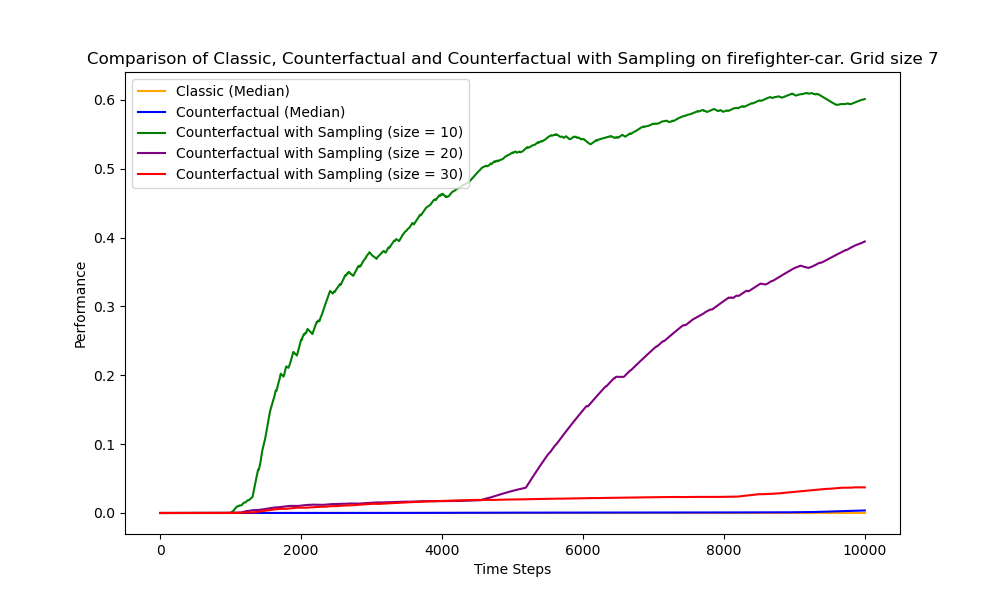
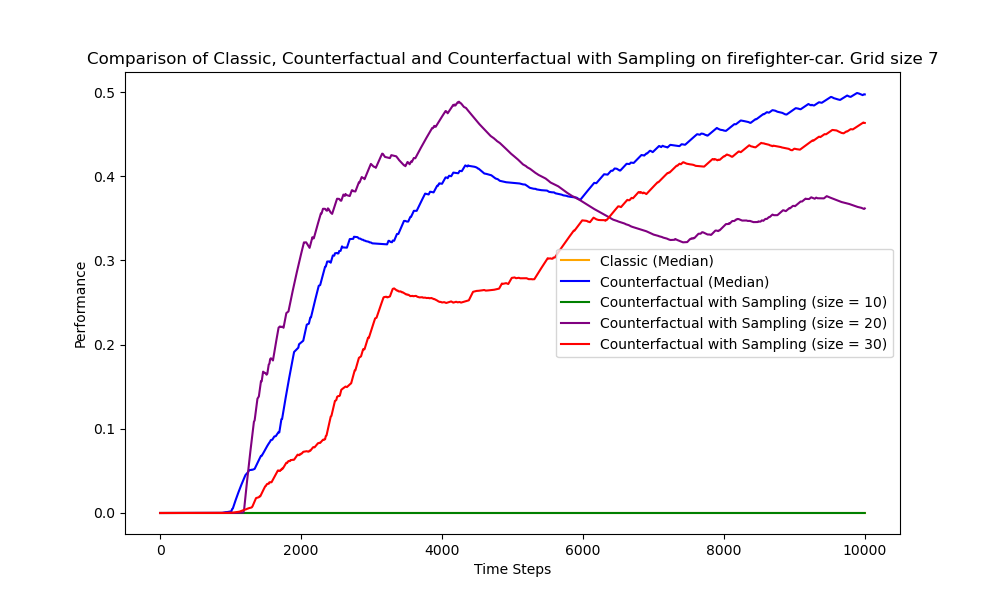
changed the script

diff --git a/firefightercar_ctrm.py b/firefightercar_ctrm.py
@@ -9,9 +9,9 @@ class FireFighterCarCTRM:
         self.finalstate = 2
         self.state = self.initstate
         self.function1 = self.generate_rates()
-        self.function1 = {position: round(value * 0.03, 3) for position, value in self.function1.items()}
-        self.function2 = {position: round(value * 10, 2) for position, value in self.function1.items()}
-        self.function3 = {position: round(value * 5, 2) for position, value in self.function1.items()}
+        self.function1 = {position: round(value * 0.01, 5) for position, value in self.function1.items()}
+        self.function2 = {position: round(value * 25, 4) for position, value in self.function1.items()}
+        self.function3 = {position: round(value * 10, 4) for position, value in self.function1.items()}
         # print("New reward machine")
 
 

diff --git a/TabularCounterSampling.py b/TabularCounterSampling.py
@@ -271,7 +271,8 @@ class DynamicQLearningCounterFactualSampling:
 
     def getrewardshaping(self,ctrm_current,ctrm_next,time): #gets the reward shaping reward
         if self.ctrmV[ctrm_current] is not None and self.ctrmV[ctrm_next] is not None:
-            reward = math.exp(-1 * self.gamma * time) * self.ctrmV[ctrm_next] - self.ctrmV[ctrm_current]
+            reward = (1/time)* (1/((1/time) + self.gamma)) * self.ctrmV[ctrm_next] - self.ctrmV[ctrm_current]
+            # reward = math.exp(-1 * self.gamma * time) * self.ctrmV[ctrm_next] - self.ctrmV[ctrm_current]
         else:
             reward = 0
         return reward

diff --git a/TabularLearningCounterFactual.py b/TabularLearningCounterFactual.py
@@ -247,7 +247,8 @@ class DynamicQLearningCounterFactual:
 
     def getrewardshaping(self,ctrm_current,ctrm_next,time): #gets the reward shaping reward
         if self.ctrmV[ctrm_current] is not None and self.ctrmV[ctrm_next] is not None:
-            reward = math.exp(-1 * self.gamma * time) * self.ctrmV[ctrm_next] - self.ctrmV[ctrm_current]
+            reward = (1/time)* (1/((1/time) + self.gamma)) * self.ctrmV[ctrm_next] - self.ctrmV[ctrm_current]
+            # reward = math.exp(-1 * self.gamma * time) * self.ctrmV[ctrm_next] - self.ctrmV[ctrm_current]
         else:
             reward = 0
         return reward

diff --git a/TabularLearning.py b/TabularLearning.py
@@ -195,7 +195,8 @@ class DynamicQLearning:
 
     def getrewardshaping(self,ctrm_current,ctrm_next,time): #gets the reward shaping reward
         if self.ctrmV[ctrm_current] is not None and self.ctrmV[ctrm_next] is not None:
-            reward = math.exp(-1 * self.gamma * time) * self.ctrmV[ctrm_next] - self.ctrmV[ctrm_current]
+            reward = (1/time)* (1/((1/time) + self.gamma)) * self.ctrmV[ctrm_next] - self.ctrmV[ctrm_current]
+            # reward = math.exp(-1 * self.gamma * time) * self.ctrmV[ctrm_next] - self.ctrmV[ctrm_current]
         else:
             reward = 0
         return reward

diff --git a/fire_fighter_ctrm.py b/fire_fighter_ctrm.py
@@ -9,7 +9,7 @@ class FireFighterCTRM:
         self.finalstate = 3
         self.state = self.initstate
         self.function1 = self.generate_rates()
-        self.function1 = {position: round(value * 0.05, 3) for position, value in self.function1.items()}
+        self.function1 = {position: round(value * 0.03, 3) for position, value in self.function1.items()}
         self.function2 = {position: round(value * 10, 3) for position, value in self.function1.items()}
         # print("New reward machine")
 
